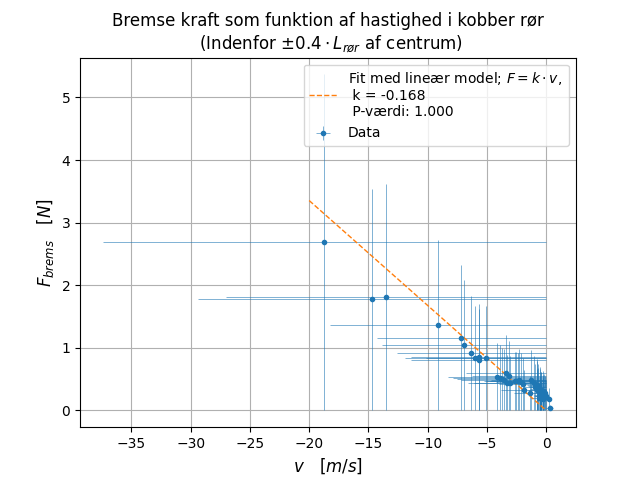
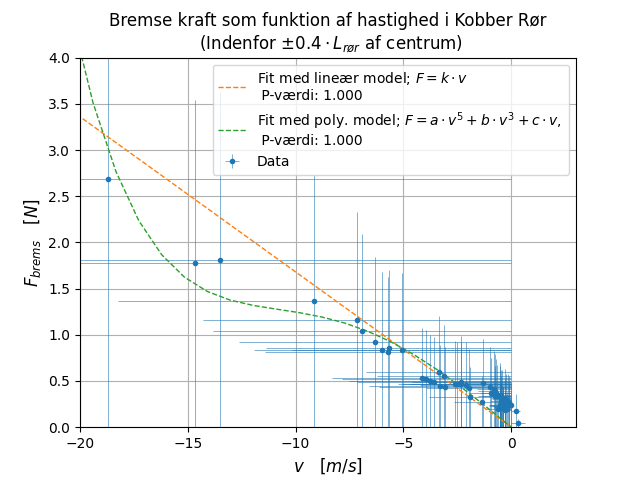
Final

diff --git a/Databehandling.py b/Databehandling.py
@@ -11,6 +11,73 @@ import os
 import math
 
 
+def findAll(s, ch):
+    return [i for i, ltr in enumerate(s) if ltr == ch]
+
+def insertCharsAtIndexs(s,ch,inds):
+    if inds == []:
+        return s+ch
+    else:
+        inds.insert(0,0)
+        bitsBetween = [s[inds[i]:inds[i+1]] for i in range(0,len(inds)-1)]
+
+        out = ""
+        for bit in bitsBetween:
+            out += bit + ch
+    return out
+
+def errorProp(func, pamVars, inVars, pcov, parms):
+
+    f = sp.sympify(func)
+    if pamVars != "":
+        parmVars = sp.symbols(pamVars)
+    else:
+        parmVars = []
+
+    inErrs = sp.symbols(insertCharsAtIndexs(inVars,"E",findAll(inVars,",")))
+
+    inVars = sp.symbols(inVars)
+    #if type(inVars) != type([]):
+    #    inVars = [inVars]
+    #    inErrs = [inErrs]
+
+    """
+    Vi antager for nu at der ingen kolation er mellem input og noglen af de andre værdier
+    (Idet vi ikke har pcov vars for disse)
+    """
+
+    phiError = f*0
+
+    """
+    Led fra usikkerheder i de individuelle parameter
+    """
+    if parmVars:
+        for i,var in enumerate(parmVars):
+            phiError += (sp.diff(f,var))**2*pcov[i,i]
+
+        """
+        Led fra kolationer
+        """
+        for y in range(0, len(pcov)-1):
+            for x in range(y+1, len(pcov)):
+
+                phiError += (2*sp.diff(f,parmVars[y])*sp.diff(f,parmVars[x])*pcov[y,x]).subs([(parmVars[x],parms[x]),(parmVars[y],parms[y])])
+
+    """
+    Led fra input værdier
+    """
+    #print(phiError)
+    #print(inVars)
+    for i,var in enumerate(inVars):
+        #print(var, i,inErrs[i])
+        phiError += (sp.diff(f,var))**2*inErrs[i]
+    #print(phiError)
+    phiError = phiError.subs([(var,parm) for var,parm in zip(parmVars,parms)])
+
+    return sp.lambdify(inVars + inErrs,sp.sqrt(phiError))
+
+
+
 
 """
 Funktion der deler et array af arrays op efter
@@ -25,15 +92,15 @@ def divideBy(arrays,axis, start, end, num):
     Empt[:] = np.nan
 
     for i in range(0,num):
-        print("kage", i)
-        print(delta)
+        #print("kage", i)
+        #print(delta)
         #print("Start",(start+delta*i))
         #print("End", (delta*(i+1)))
         indexs = np.where(((start+delta*i) <= divider)*(divider < (start+delta*(i+1))),np.array(list(range(len(divider))),dtype = np.int64),Empt)
         #print(indexs)
         indexs = indexs[~(np.isnan(indexs))]
         #print(indexs)
-        print(len(indexs))
+        #print(len(indexs))
         out_array = []
         for array in arrays:
             #print(array)
@@ -72,7 +139,9 @@ class diverseVærdier:
     m_medium = 9.5*10**(-3)
     m_let = 5.1*10**(-3)
     m_magnet = 42.5*10**(-3)
-    g = -9.6
+    g = -9.62
+    gerr = 0.012
+
     spoleOffset = np.mean(np.array([1.323263E-1, 1.174768E-1,1.348158E-1]))
     rørOffset = np.mean(np.array([2.635928E-2,3.777756E-2,-1.330933E-2]))
     LSpole = 0.191
@@ -82,8 +151,12 @@ class diverseVærdier:
     midtPoint = 1/2
     errdataFile = "Induktionsbremse fejltest.txt"
 
+    Merr = 0.0001
+
     t,ylod1,ylod2,ylod3,ylod4 = np.loadtxt(errdataFile, unpack = True, usecols=(0,1,2,3,4), skiprows=3)
     yerr = sum((abs(ylod1-ylod2)+abs(ylod3-ylod4))/2)/len(ylod1)
+
+    FerrFunc = lambda self,a, aE,mLod: np.sqrt(aE*(mLod + 42.5*10**(-3))**2 + 0.012*(mLod - 42.5*10**(-3))**2 + 0.0001*(a-9.62)**2 + 0.0001*(a +9.62)**2)
 
 
 
@@ -176,9 +249,11 @@ class Maaling(diverseVærdier):
 
         self.F_in     = np.array([])
         self.F_in_unc = np.array([])
-        print(self.file)
+
+
+
         for i,mål in enumerate(self.inLeder):
-            print("På ", i, len(mål[0]))
+            #print("På ", i, len(mål[0]))
             if len(mål[0]) <= 3:
                 continue
             self.ys_inLeder = np.append(self.ys_inLeder,mål[0])
@@ -201,7 +276,7 @@ class Maaling(diverseVærdier):
             self.a_in_unc   = np.append(self.a_in_unc , np.sqrt(pcov[0,0]))
 
             self.F_in       = np.append( self.F_in    ,parms[0]*(self.m_magnet+self.m_lod)+self.g*(self.m_lod-self.m_magnet))
-            self.F_in_unc   = np.append( self.F_in_unc,np.sqrt(pcov[0,0])*abs(self.m_magnet+self.m_lod))
+            self.F_in_unc   = np.append( self.F_in_unc, self.FerrFunc(parms[0],np.sqrt(pcov[0,0]),self.m_lod))
 
 
         #except:
@@ -327,39 +402,51 @@ vedMundingSpoleLukket = divideBy([und.SpoleLukket.ys,und.SpoleLukket.vs,und.Spol
 #ax.errorbar(vedMundingRør[1],vedMundingRør[0],yerr = vedMundingRør[-1],xerr = vedMundingRør[-2],ls = "None", marker = ".", label = "Rå data Rør")
 #ax.errorbar(vedMundingSpole[1],vedMundingSpole[0],yerr = vedMundingSpole[-1],xerr = vedMundingSpole[-2],ls = "None", marker = ".", label = "Rå data Spole")
 #ax.errorbar(vedMundingSpoleLukket[1],vedMundingSpoleLukket[2],yerr = vedMundingSpoleLukket[-1],xerr = vedMundingSpoleLukket[-2],ls = "None", marker = ".", label = "Rå data Spole lukket")
-print(und.rør.newVs)
-print(und.rør.newFs)
 
 #ax.errorbar(vedMundingRør[1],vedMundingRør[0],yerr = vedMundingRør[-1],xerr = vedMundingRør[-2],ls = "None", marker = ".", label = "Rå data Rør")
 
 #ax.errorbar(und.rør.maalinger[Mål].ts_inLeder,und.rør.maalinger[Mål].ys_inLeder,ls = "None", marker = ".", label = "Rå data Rør")
 #fitted = und.rør.maalinger[Mål].a_in*1/2*np.power(und.rør.maalinger[Mål].ts_inLeder,2)+und.rør.maalinger[Mål].v0_in*und.rør.maalinger[Mål].ts_inLeder+und.rør.maalinger[Mål].y0_in
 #ax.plot(und.rør.maalinger[Mål].ts_inLeder,fitted,ls = "--",marker = "None", label = "Fit til kons. acceleration")
-print(und.rør.newVs_unc)
 
-lin = lambda x,a: a*x
+
+fit1 = lambda x,a: a*x
+fit2 = lambda x,a,b,c: a*x**5+b*x**3+c*x
+
+#ledende = und.rør
+#ledende = und.Spole
+ledende = und.SpoleLukket
 
 #ax.errorbar(und.rør.newVs,und.rør.newFs,xerr = und.rør.newVs_unc[0:len(und.rør.newVs)],yerr = und.rør.newFs_unc[0:len(und.rør.newVs)],ls = "None", marker = ".", label = "Data", elinewidth = 0.4)
 #ax.errorbar(und.SpoleLukket.newVs,und.SpoleLukket.newFs,xerr = und.SpoleLukket.newVs_unc[0:len(und.SpoleLukket.newVs)],yerr = und.SpoleLukket.newFs_unc[0:len(und.SpoleLukket.newVs)],ls = "None", marker = ".", label = "Data", elinewidth = 0.4)
-ax.errorbar(und.SpoleLukket.newVs,und.SpoleLukket.newFs,xerr = und.SpoleLukket.newVs_unc[0:len(und.SpoleLukket.newVs)],yerr = und.SpoleLukket.newFs_unc[0:len(und.SpoleLukket.newVs)],ls = "None", marker = ".", label = "Data", elinewidth = 0.4)
+#ax.errorbar(und.SpoleLukket.newVs,und.SpoleLukket.newFs,xerr = und.SpoleLukket.newVs_unc[0:len(und.SpoleLukket.newVs)],yerr = und.SpoleLukket.newFs_unc[0:len(und.SpoleLukket.newVs)],ls = "None", marker = ".", label = "Data", elinewidth = 0.4)
+ax.errorbar(ledende.newVs,ledende.newFs,xerr = ledende.newVs_unc[0:len(ledende.newVs)],yerr = ledende.newFs_unc[0:len(ledende.newVs)],ls = "None", marker = ".", label = "Data", elinewidth = 0.4)
 
-
-parms, pcov, chi2_min, P = fitTo(lin,und.SpoleLukket.newVs,und.SpoleLukket.newFs, und.SpoleLukket.newFs_unc[0:len(und.SpoleLukket.newVs)],[-10])
+parms1, pcov1, chi2_min1, P1 = fitTo(fit1,ledende.newVs,ledende.newFs, ledende.newFs_unc[0:len(ledende.newVs)],[-1])
+parms2, pcov2, chi2_min2, P2 = fitTo(fit2,ledende.newVs,ledende.newFs, ledende.newFs_unc[0:len(ledende.newVs)],[0,0,-1])
 vs = np.linspace(-30,75,100)
-print(chi2_min)
+
+print(parms1)
+print(np.sqrt(pcov1[0,0]))
 
 
-ax.plot(vs,parms[0]*vs,ls = "--",marker = "None", label = "Fit med lineær model; $F = k\cdot v$, \n k = {0:0.3f} \n P-værdi: {1:0.3f}".format(parms[0],P), lw = 1)
+print(parms2)
+print(np.sqrt(np.diagonal(pcov2)))
 
-
+ax.plot(vs,parms1[0]*vs,ls = "--",marker = "None", label = "Fit med lineær model; $F = k\cdot v$ \n P-værdi: {1:0.3f}".format(parms1[0],P1), lw = 1)
+ax.plot(vs,fit2(vs,*parms2),ls = "--",marker = "None", label = "Fit med poly. model; $F = a\cdot v^5+b\cdot v^3+c\cdot v$, \n P-værdi: {1:0.3f}".format(parms2[0],P2), lw = 1)
+#aE*(mLod + mMagnet)**2 + gE*(mLod - mMagnet)**2 + mLodE*(a + g)**2 + mMagnetE*(a - g)**2
 #ax.errorbar(und.Spole.newVs,und.Spole.newFs,xerr = und.Spole.newVs_unc[0:-1],yerr = und.Spole.newFs_unc[0:-1],ls = "None", marker = ".", label = "Rå data Spole")
 #yerr = und.rør.newFs_unc,xerr = und.rør.newVs_unc
 
 labelfontsize = 12
+#ax.set_title(r"Bremse kraft som funktion af hastighed i Kobber Rør" "\n (Indenfor $\pm 0.4 \cdot L_{rør}$ af centrum)")
 ax.set_title(r"Bremse kraft som funktion af hastighed i 'åben' spole" "\n (Indenfor $\pm 0.4 \cdot L_{spole}$ af centrum)")
+#ax.set_title(r"Bremse kraft som funktion af hastighed i 'lukket' spole" "\n (Indenfor $\pm 0.4 \cdot L_{spole}$ af centrum)")
 ax.set_ylabel(r"$F_{brems} \quad [N]$", fontsize = labelfontsize)
 ax.set_xlabel(r"$v \quad [m/s]$",       fontsize = labelfontsize)
-
+ax.set_xlim([-30,30])
+ax.set_ylim([-4,8])
 #ax.set_ylabel(r"$y \quad [m]$")
 #ax.set_xlabel(r"$ts \quad [s]$")
 
